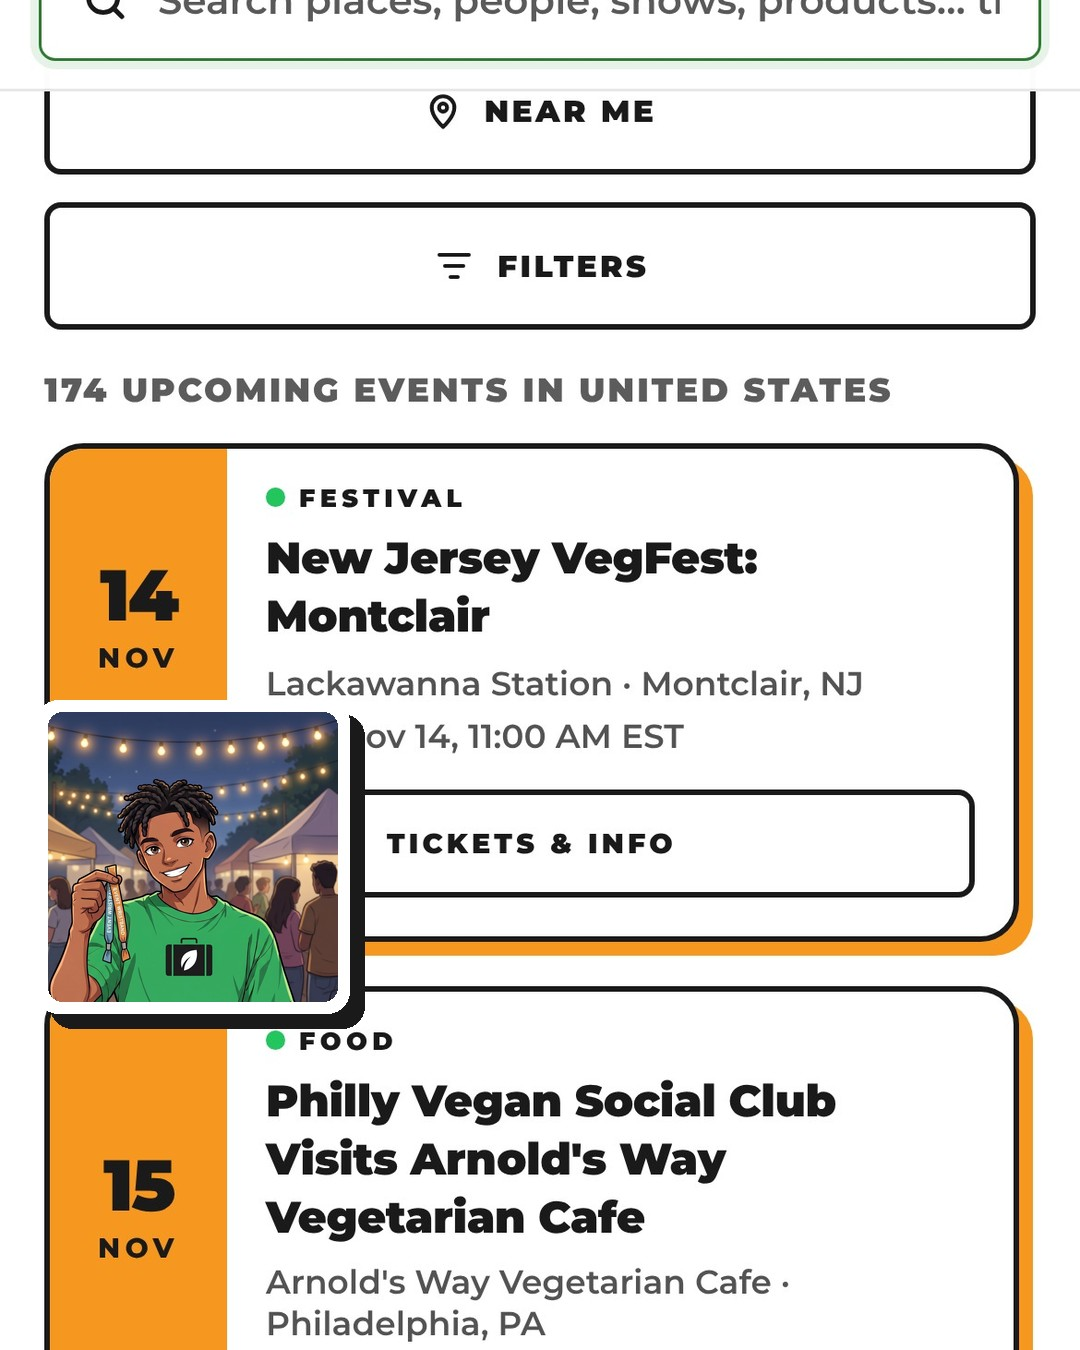
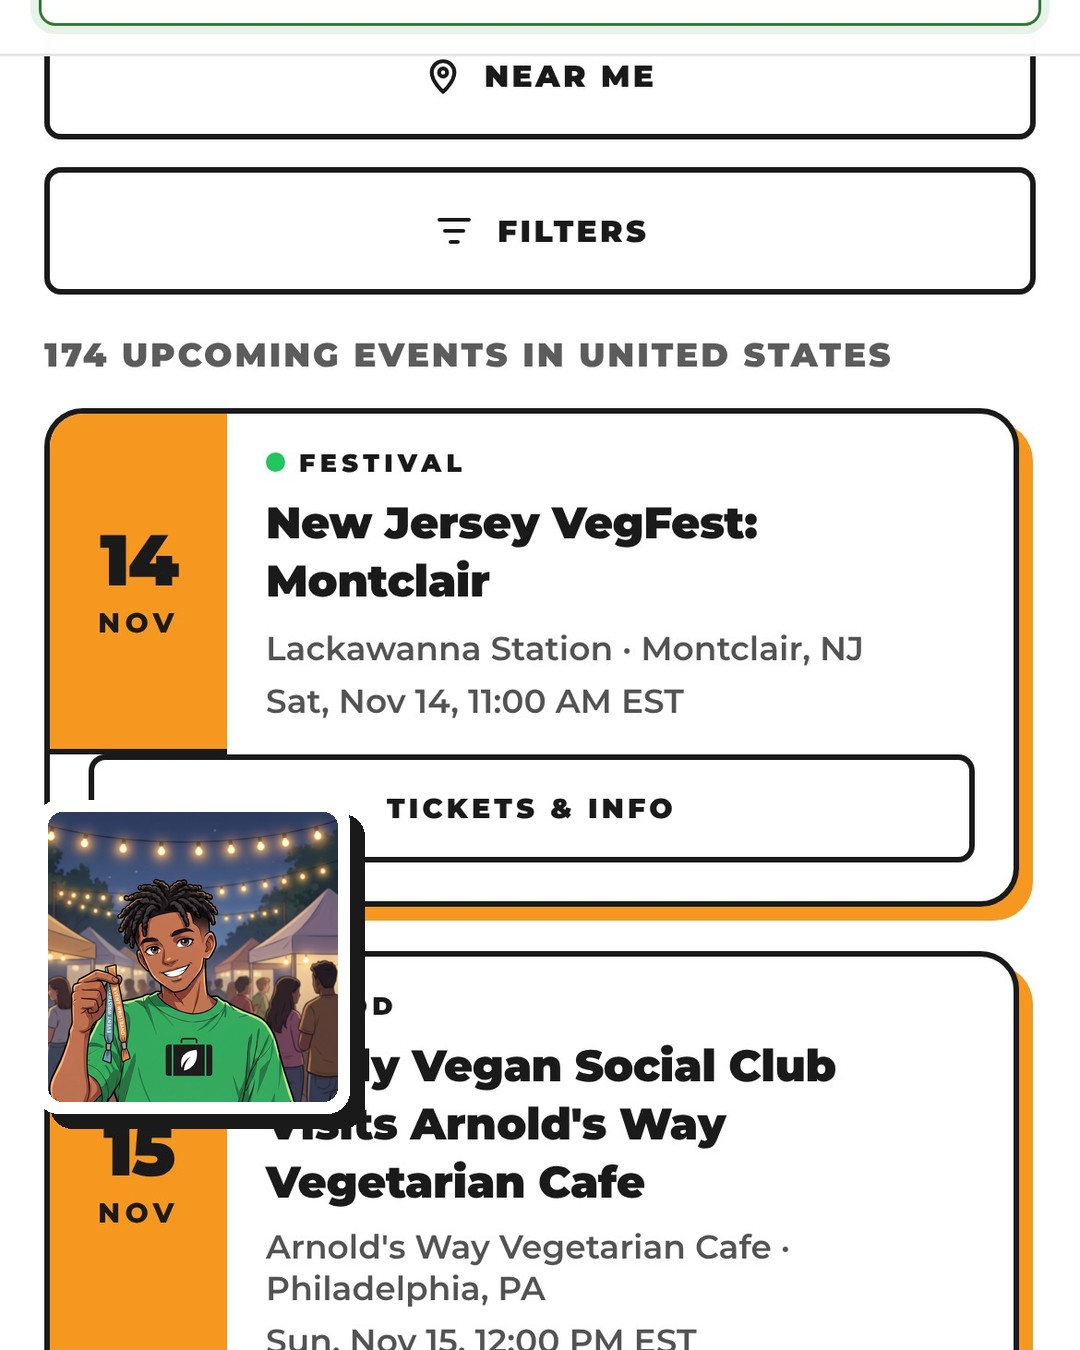
Social panel: creative director's review and samples (reels strategist still running)
Claude-Session: https://claude.ai/code/session_016TNa9UbJfSyMYLUwC33Bbw

Changed region(s): [[0.0306, 0.0, 0.9778, 1.0]]

diff --git a/public/social/panel/short-video/compose.py b/public/social/panel/short-video/compose.py
@@ -43,8 +43,8 @@ save(a, 'r2-directory.jpg')
 a = screen('listing', 160, 1080, 1350)
 save(inset(a, 'maya-menu', 36, 770, 290, (120, 0, 1040, 920)), 'r3-listing.jpg')
 # 04 Events: the event cards big, River inset.
-a = screen('events', 240, 1080, 1350)
-save(inset(a, 'river-festival', 36, 700, 290, (140, 0, 1080, 940)), 'r4-events.jpg')
+a = screen('events', 278, 1080, 1350)
+save(inset(a, 'river-festival', 36, 800, 290, (140, 0, 1080, 940)), 'r4-events.jpg')
 # Carousel inside slide art, 1:1: the Directory doors full bleed, Theo inset bottom right (no app UI on a feed post's picture).
 a = screen('directory', 330, 1080, 1080)
 save(inset(a, 'theo-guidebook', 690, 660, 330, (140, 0, 1080, 940)), 'c-directory-sq.jpg')

diff --git a/public/social/panel/creative-director/review.md b/public/social/panel/creative-director/review.md
@@ -37,5 +37,5 @@ Re-crop every screenshot to fill 65 to 70 percent of the picture width, cropped 
 - `sample-05.jpg` Guides, Theo (card kept clear of the Guides group picture in the screenshot)
 - `sample-06.jpg` Seattle community, browser cropped to the hero
 - `sample-07.jpg` end card (unchanged template)
-- `before-after-360.jpg` current Events slide beside the redesign at 360 px
+- `before-after-360.jpg` current cover beside the redesigned cover at 360 px
 - `art.js`, `art.json`, `art/` the picture-area compositor, its crops, and the 1080 squares; `spec.json` the slide spec
